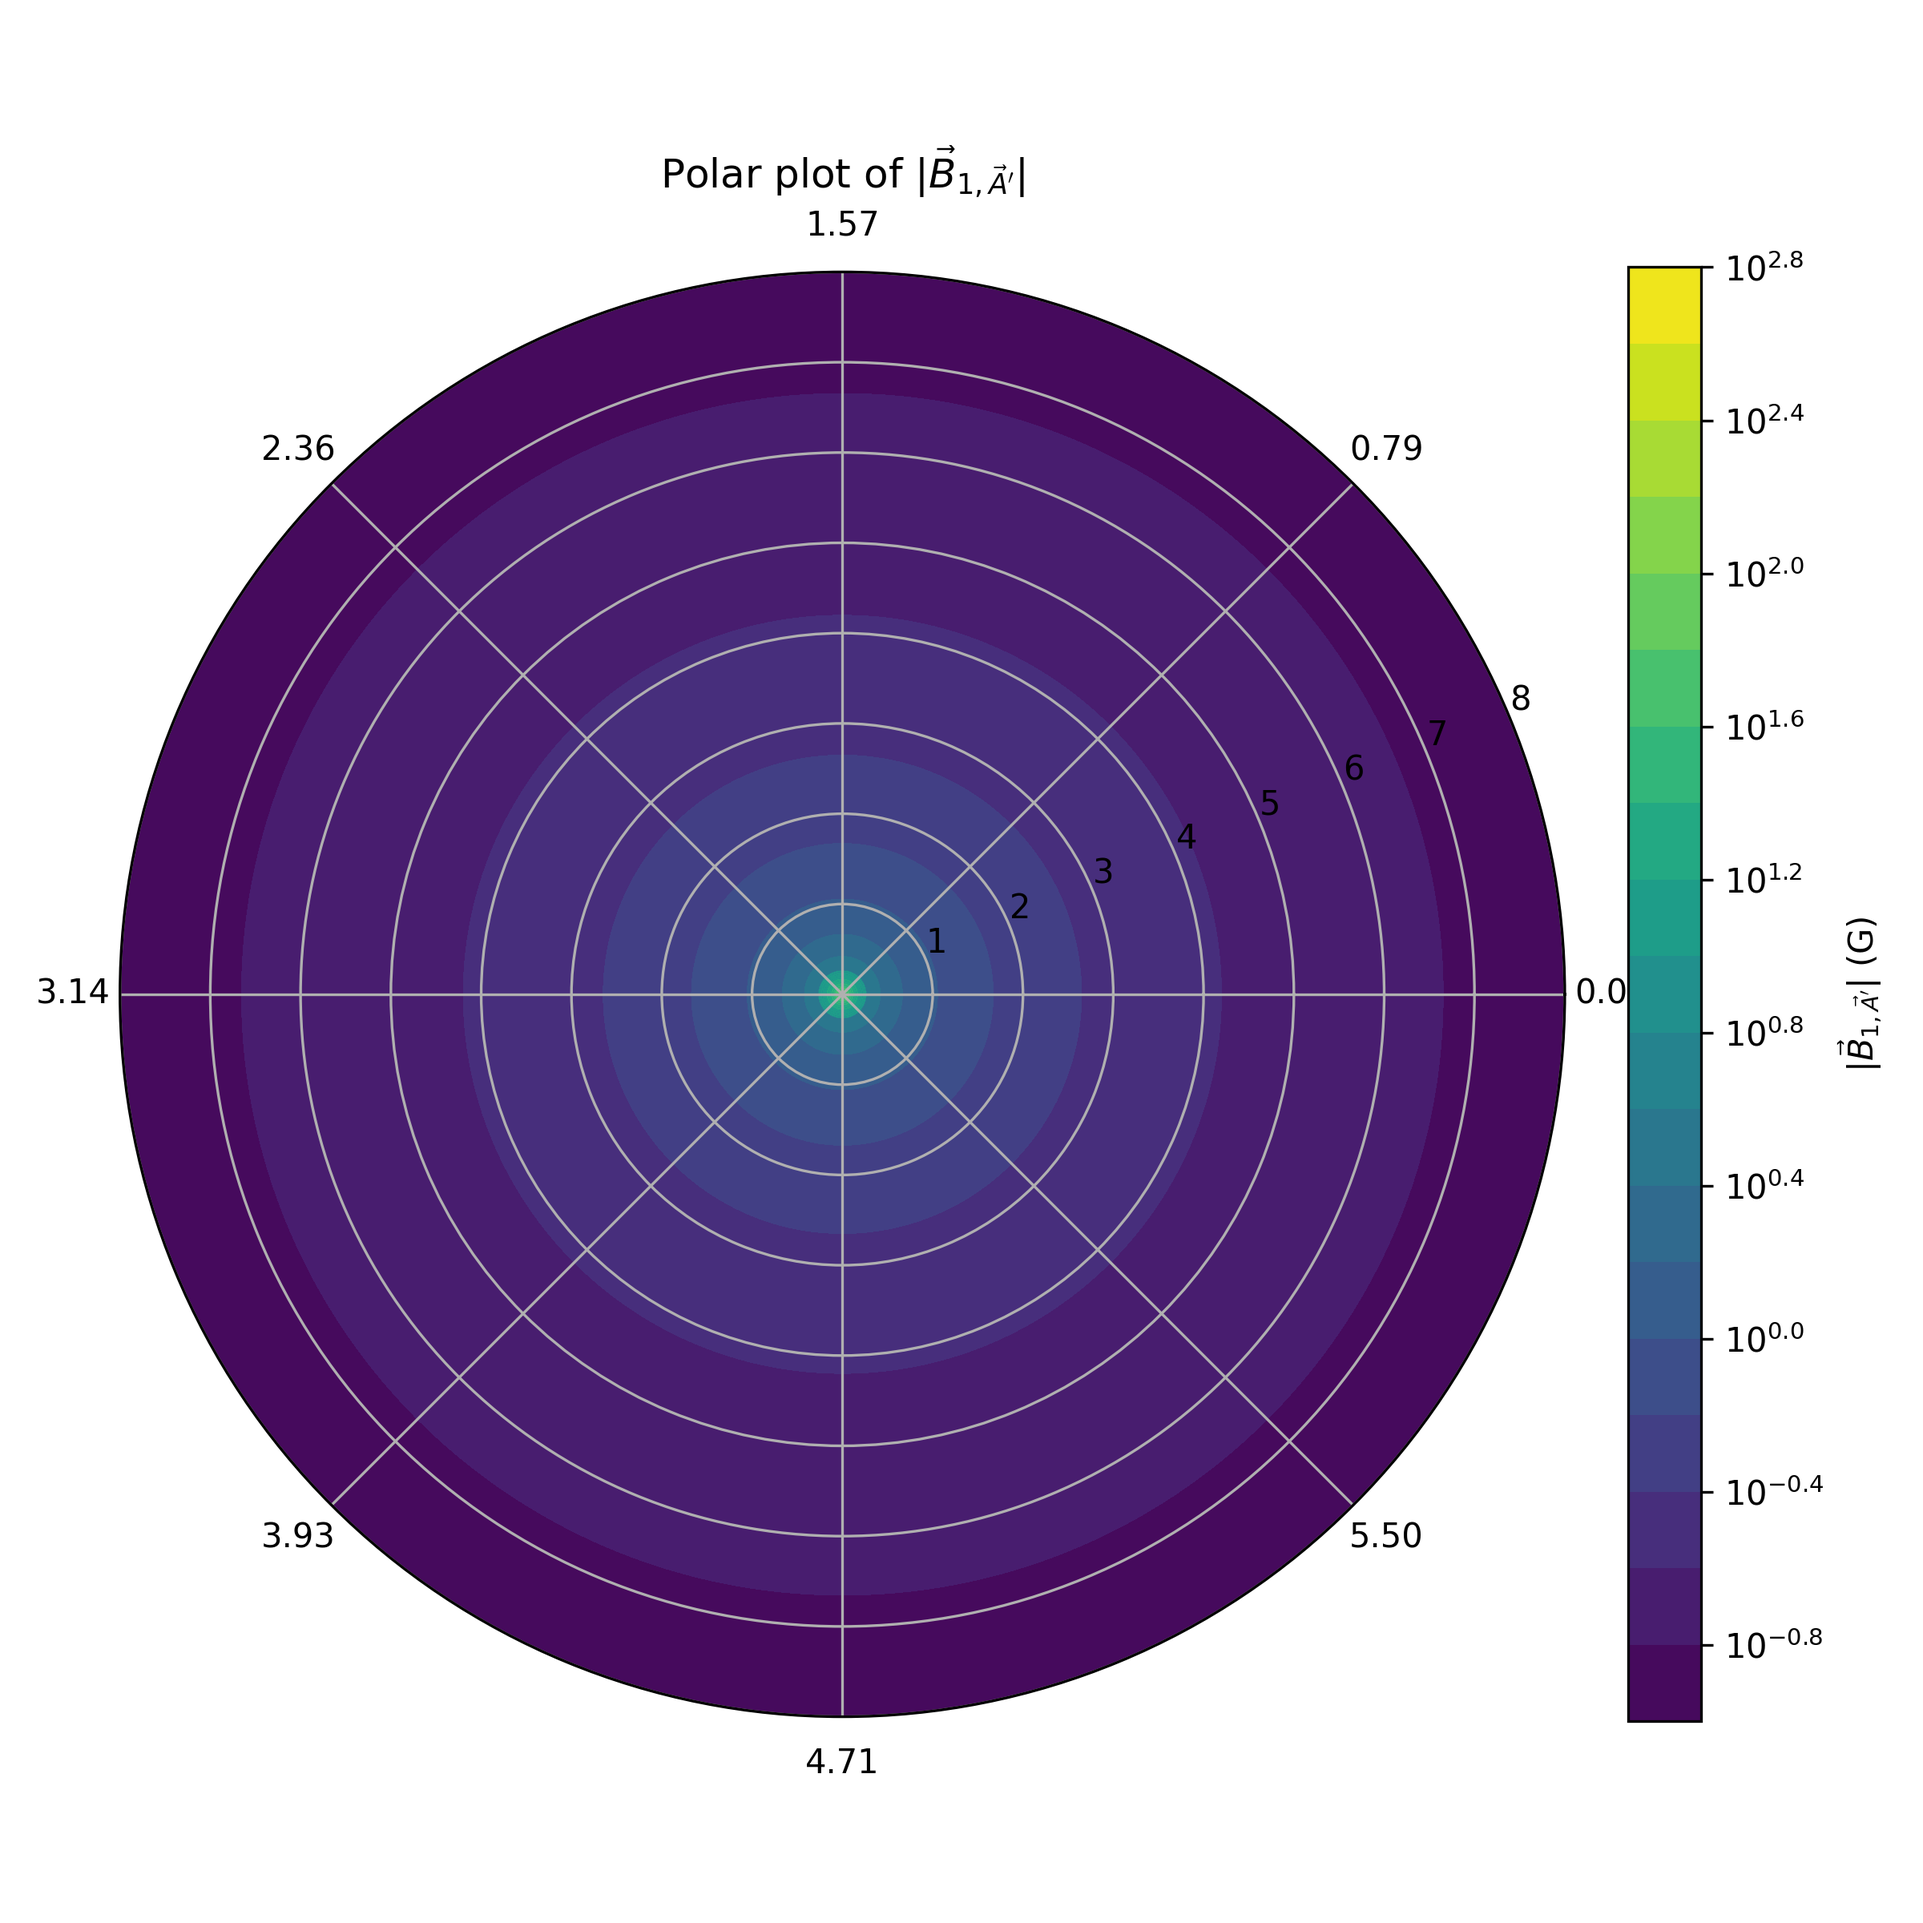
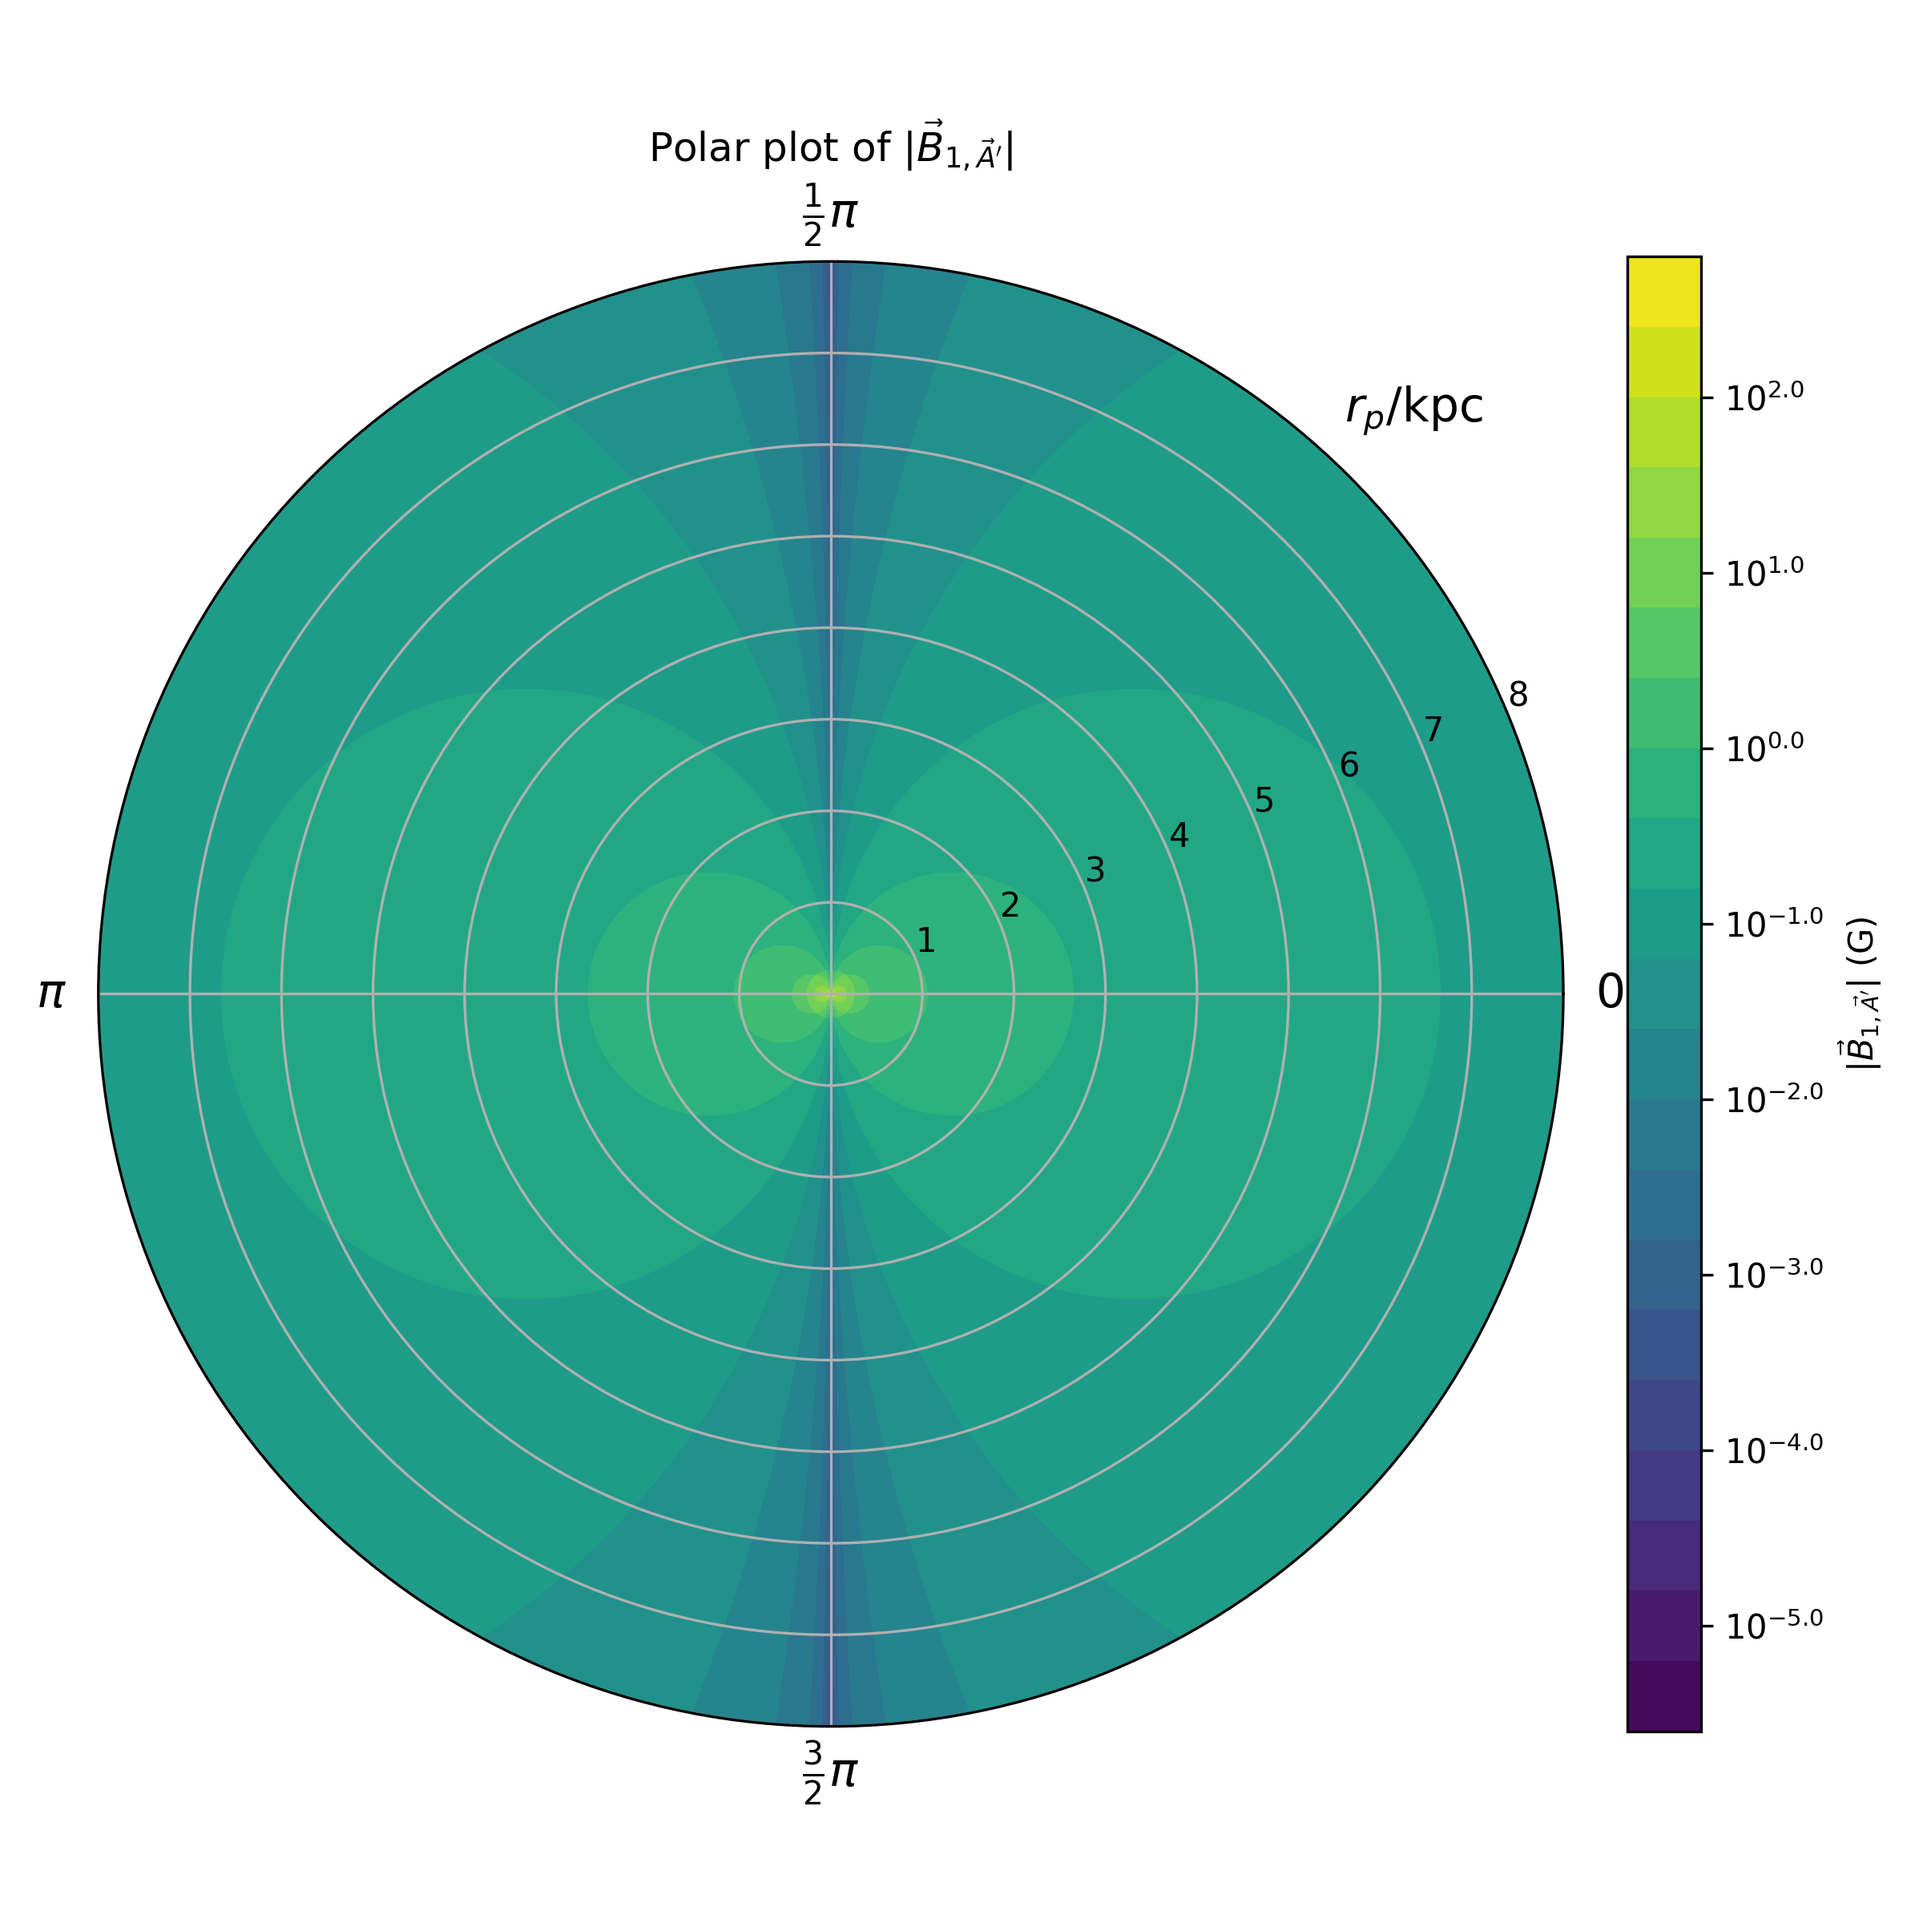
In progress

diff --git a/zeeman.py b/zeeman.py
@@ -8,7 +8,7 @@ import matplotlib.pyplot as plt
 import matplotlib.ticker as mticker
 import numpy as np
 import os
-from scipy.constants import alpha, epsilon_0, h, hbar, G, m_e, m_p, pi, physical_constants, year
+from scipy.constants import alpha, epsilon_0, h, hbar, G, m_e, m_p, physical_constants, year
 
 # Define the imaginary unit
 j = 1j
@@ -19,12 +19,12 @@ e_au = physical_constants["atomic unit of charge"][0]
 g_e = physical_constants["electron g factor"][0]
 g_p = physical_constants["proton g factor"][0]
 M_s = M_sun.value
-m_pl = (c * hbar / (8 * pi * G))**(1 / 2) * c**2 / e_au # Reduced Planck mass (eV)
+m_pl = (c * hbar / (8 * np.pi * G))**(1 / 2) * c**2 / e_au # Reduced Planck mass (eV)
 mu_B = physical_constants["Bohr magneton"][0]
 r_e = physical_constants["Bohr radius"][0]
 
 # Conversion factors
-C_to_eV = (4 * pi * alpha)**(1 / 2) / e_au
+C_to_eV = (4 * np.pi * alpha)**(1 / 2) / e_au
 kg_to_eV = c**2 / e_au
 m_to_eVminus1 = e_au / h / c
 J_to_eV = 1 / e_au
@@ -180,7 +180,7 @@ def calculate_gac(potential_type, f):
         g_ac = 0.66e-19
 
     elif potential_type == "flat":
-        g_ac = alpha / pi / f
+        g_ac = alpha / np.pi / f
         
     return g_ac
 
@@ -238,7 +238,7 @@ def calculate_B1(potential_type, particle_type, t, m, f, epsilon, r_p, theta_p, 
         R = 2 / m # Radius of axion star
 
         # Calculate B1
-        B1 = B_bar / r_p * np.cos(- omega * t) * phi0 * g_ac * omega * 1 / 4 * pi**2 * R**2 * np.tanh(pi * omega * R / 2) / np.cosh(pi * omega * R / 2)
+        B1 = B_bar / r_p * np.cos(- omega * t) * phi0 * g_ac * omega * 1 / 4 * np.pi**2 * R**2 * np.tanh(np.pi * omega * R / 2) / np.cosh(np.pi * omega * R / 2)
     
         return np.array([B1])
 
@@ -279,7 +279,7 @@ def calculate_B1(potential_type, particle_type, t, m, f, epsilon, r_p, theta_p, 
         B1_z = np.real(B1_z_complex)
         B1 = np.sqrt(B1_x**2 + B1_y**2 + B1_z**2)
 
-        return np.array([B1, B1_x_complex, B1_y_complex, B1_z_complex])
+        return np.array([B1, B1_x_complex, B1_y_complex, B1_z_complex], dtype=complex)
 
 # Calculate the Landé g-factor
 def calculate_g_j(g_e, l, s, j):
@@ -550,16 +550,19 @@ def plot2D_data(xs, ys, zs, xlabel, ylabel, zlabel, title, figure_name, plotstyl
         cbar = fig.colorbar(contour, ax=ax, orientation="vertical", fraction=0.046, pad=0.04)
         cbar.set_label(zlabel) # Set the label for the colour bar
 
-        # Set phi ticks in radians
-        ax.set_xticks(np.linspace(0, 2 * np.pi, num=8, endpoint=False))
-        ax.set_xticklabels([f"{phi:.2f}" for phi in np.linspace(0, 2 * np.pi, num=8, endpoint=False)])
+        # Set phi ticks in radians (units of pi)
+        xticks = [0, 1 / 2 * np.pi, np.pi, 3 / 2 * np.pi]
+        ax.set_xticks(xticks)
 
         # Configure the axes for logarithmic scaling if specified
         if zlog: # Assuming z-values are represented in the colour bar
             cbar.ax.yaxis.set_major_formatter(mticker.FuncFormatter(lambda value, position: log_tick_formatter(value, position, logdp)))
             cbar.ax.yaxis.set_major_locator(mticker.MaxNLocator(integer=(logdp == 0)))
 
-        # Set the title for the polar plot
+        # Set the axes labels and titles
+        xticklabels = ["0", r"$\frac{1}{2}\pi$", r"$\pi$", r"$\frac{3}{2}\pi$"]
+        ax.set_xticklabels(xticklabels, fontsize=14)
+        ax.text(np.pi / 4, np.max(ys) + 1, ylabel, fontsize=14, ha="center", va="center")
         ax.set_title(title)
 
     elif plotstyle == "3D":
@@ -716,7 +719,7 @@ def main():
     print(f"The distance of L1544 from Galactic Centre is {r_p:.2e}eV^-1.")
 
     # Calculate the internal magnetic field of a hydrogen atom
-    B_int = 1 / (4 * pi * epsilon_0) * e_au / (m_e * c**2 * r_e**3) * hbar
+    B_int = 1 / (4 * np.pi * epsilon_0) * e_au / (m_e * c**2 * r_e**3) * hbar
     print(f"The magnitude of internal magnetic field is roughly {B_int:.2f}T.")
 
     # Specify the potential and particle types
@@ -762,22 +765,25 @@ def main():
 
     # Polar coordinate plane
     r_ps = np.linspace(0 * r_c, 8000 * pc_to_m * m_to_eVminus1, 2000)
-    phi_ps = np.linspace(0, 2 * pi, 2000)
+    phi_ps = np.linspace(0, 2 * np.pi, 2000)
     r_ps, phi_ps = np.meshgrid(r_ps, phi_ps)
-    B1polar_d = np.abs(calculate_B1("flat", "dark photon", 0, m_D, f, epsilon, r_ps, pi / 2, phi_ps, B_bar)[3])
+    B1polar_d_mag, B1polar_d_x, B1polar_d_y, B1polar_d_z = calculate_B1("flat", "dark photon", 0, m_D, f, epsilon, r_ps, np.pi / 2, phi_ps, B_bar)
+    B1polar_d_mag = np.real(B1polar_d_mag)
+    B1polar_d_theta = np.abs(- B1polar_d_z)
  
-    # Plot B1 versus distance of measurement point from Galactic Centre (r_p) and phi_p
-    plot2D_data(phi_ps, r_ps / (1000 * pc_to_m * m_to_eVminus1), np.log10(B1polar_d / 1e-4), r"$r_p/\mathrm{kpc}$", r"$\phi$ (rad)", r"$|\vec{B}_{1, \vec{A}'}|$ (G)", r"Polar plot of $|\vec{B}_{1, \vec{A}'}|$", "B1polardarkphoton.png", plotstyle="contourf-polar", levels=20, zlog=True, logdp=1, save=True)
+    # Plot B1 versus distance of measurement point from Galactic Centre (r_p) and phi_ps
+    plot2D_data(phi_ps, r_ps / (1000 * pc_to_m * m_to_eVminus1), np.log10(B1polar_d_mag / 1e-4), r"$\phi$ (rad)", r"$r_p/\mathrm{kpc}$", r"$|\vec{B}_{1, \vec{A}'}|$ (G)", r"Polar plot of $|\vec{B}_{1, \vec{A}'}|$", "B1polardarkphoton.png", plotstyle="contourf-polar", levels=20, zlog=True, logdp=1, save=True)
+    plot2D_data(phi_ps, r_ps / (1000 * pc_to_m * m_to_eVminus1), np.log10(B1polar_d_theta / 1e-4), r"$\phi$ (rad)", r"$r_p/\mathrm{kpc}$", r"$|\vec{B}_{1\theta, \vec{A}'}|$ (G)", r"Polar plot of $|\vec{B}_{1\theta, \vec{A}'}|$", "B1polardarkphotontheta.png", plotstyle="contourf-polar", levels=20, zlog=True, logdp=1, save=True)
 
     # Calculate the period of oscillation
-    period = 2 * pi / omega / s_to_eVminus1
+    period = 2 * np.pi / omega / s_to_eVminus1
     print(f"Period: {round(period / year, 2)}yr.")
 
     # Define the time range
     ts = np.linspace(0, 4 * period, 1000)
 
     # Calculate B1 values
-    B1s = np.array([calculate_B1(potential_type, particle_type, t * s_to_eVminus1, m, f, epsilon, r_p, 0, 0, B_bar)[0] for t in ts])
+    B1s = np.array([np.real(calculate_B1(potential_type, particle_type, t * s_to_eVminus1, m, f, epsilon, r_p, 0, 0, B_bar)[0]) for t in ts])
 
     # Calculate the shift in energy for each B1
     delta_Es = np.array([calculate_delta_E(B1) for B1 in B1s])
@@ -809,10 +815,10 @@ def main():
         r_ps = np.linspace(1 * r_c, 8000 * pc_to_m * m_to_eVminus1, 10000)
         r_ps_res = np.linspace(1 * r_c, 1.5 * r_c, 10000)
         f, m_a, m_D = gen_params("flat")
-        B1r_ps_a = np.array([calculate_B1("flat", "axion", 0, m_a, f, epsilon, r_p, 0, 0, B_bar)[0] for r_p in r_ps])
-        B1r_ps_d = np.array([calculate_B1("flat", "dark photon", 0, m_D, f, epsilon, r_p, 0, 0, B_bar)[0] for r_p in r_ps])
-        B1r_ps_a_res = np.array([calculate_B1("flat", "axion", 0, m_a, f, epsilon, r_p, 0, 0, B_bar)[0] for r_p in r_ps_res])
-        B1r_ps_d_res = np.array([calculate_B1("flat", "dark photon", 0, m_D, f, epsilon, r_p, 0, 0, B_bar)[0] for r_p in r_ps_res])
+        B1r_ps_a = np.array([np.real(calculate_B1("flat", "axion", 0, m_a, f, epsilon, r_p, 0, 0, B_bar)[0]) for r_p in r_ps])
+        B1r_ps_d = np.array([np.real(calculate_B1("flat", "dark photon", 0, m_D, f, epsilon, r_p, 0, 0, B_bar)[0]) for r_p in r_ps])
+        B1r_ps_a_res = np.array([np.real(calculate_B1("flat", "axion", 0, m_a, f, epsilon, r_p, 0, 0, B_bar)[0]) for r_p in r_ps_res])
+        B1r_ps_d_res = np.array([np.real(calculate_B1("flat", "dark photon", 0, m_D, f, epsilon, r_p, 0, 0, B_bar)[0]) for r_p in r_ps_res])
 
         # Plot B1 versus r_p for axion
         plot_data(r_ps / (1000 * pc_to_m * m_to_eVminus1), B1r_ps_a / 1e-4, "", r"$r_p/\mathrm{kpc}$", r"$|\vec{B}_{1, a}|$ (G)", r"Radial profile of $|\vec{B}_{1, a}|$", f"B1vsrpflataxionm{m_a}.png", xlog=True, save=True)
